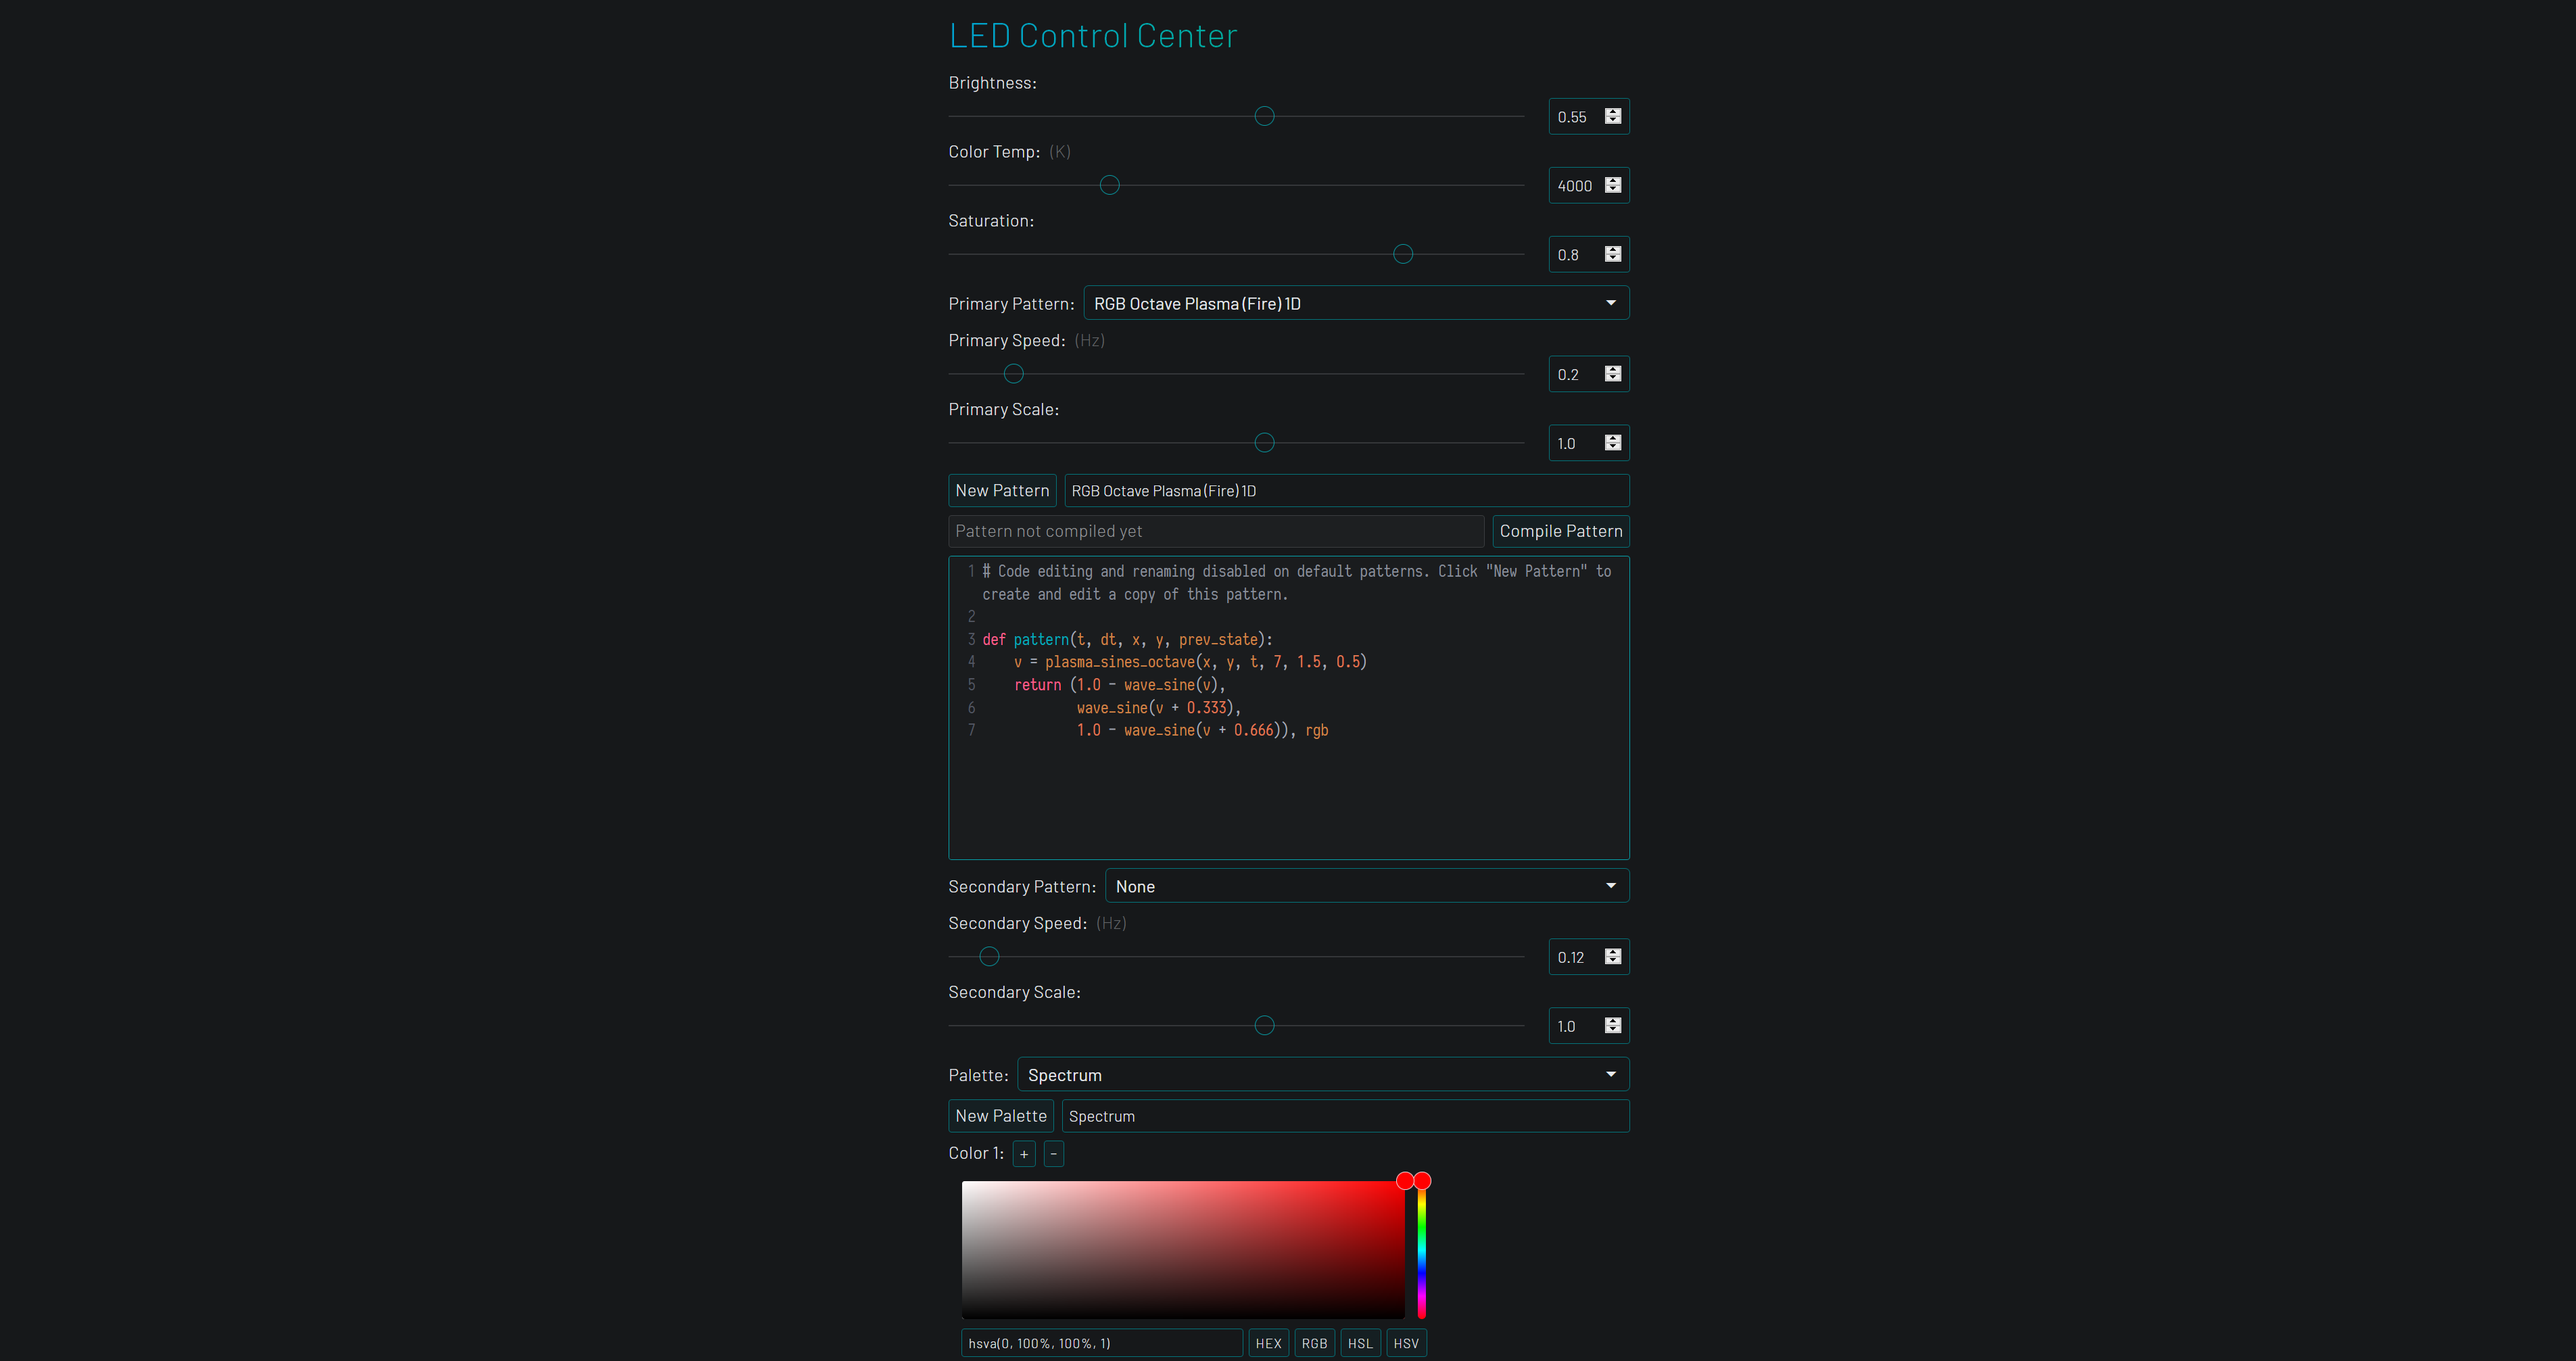
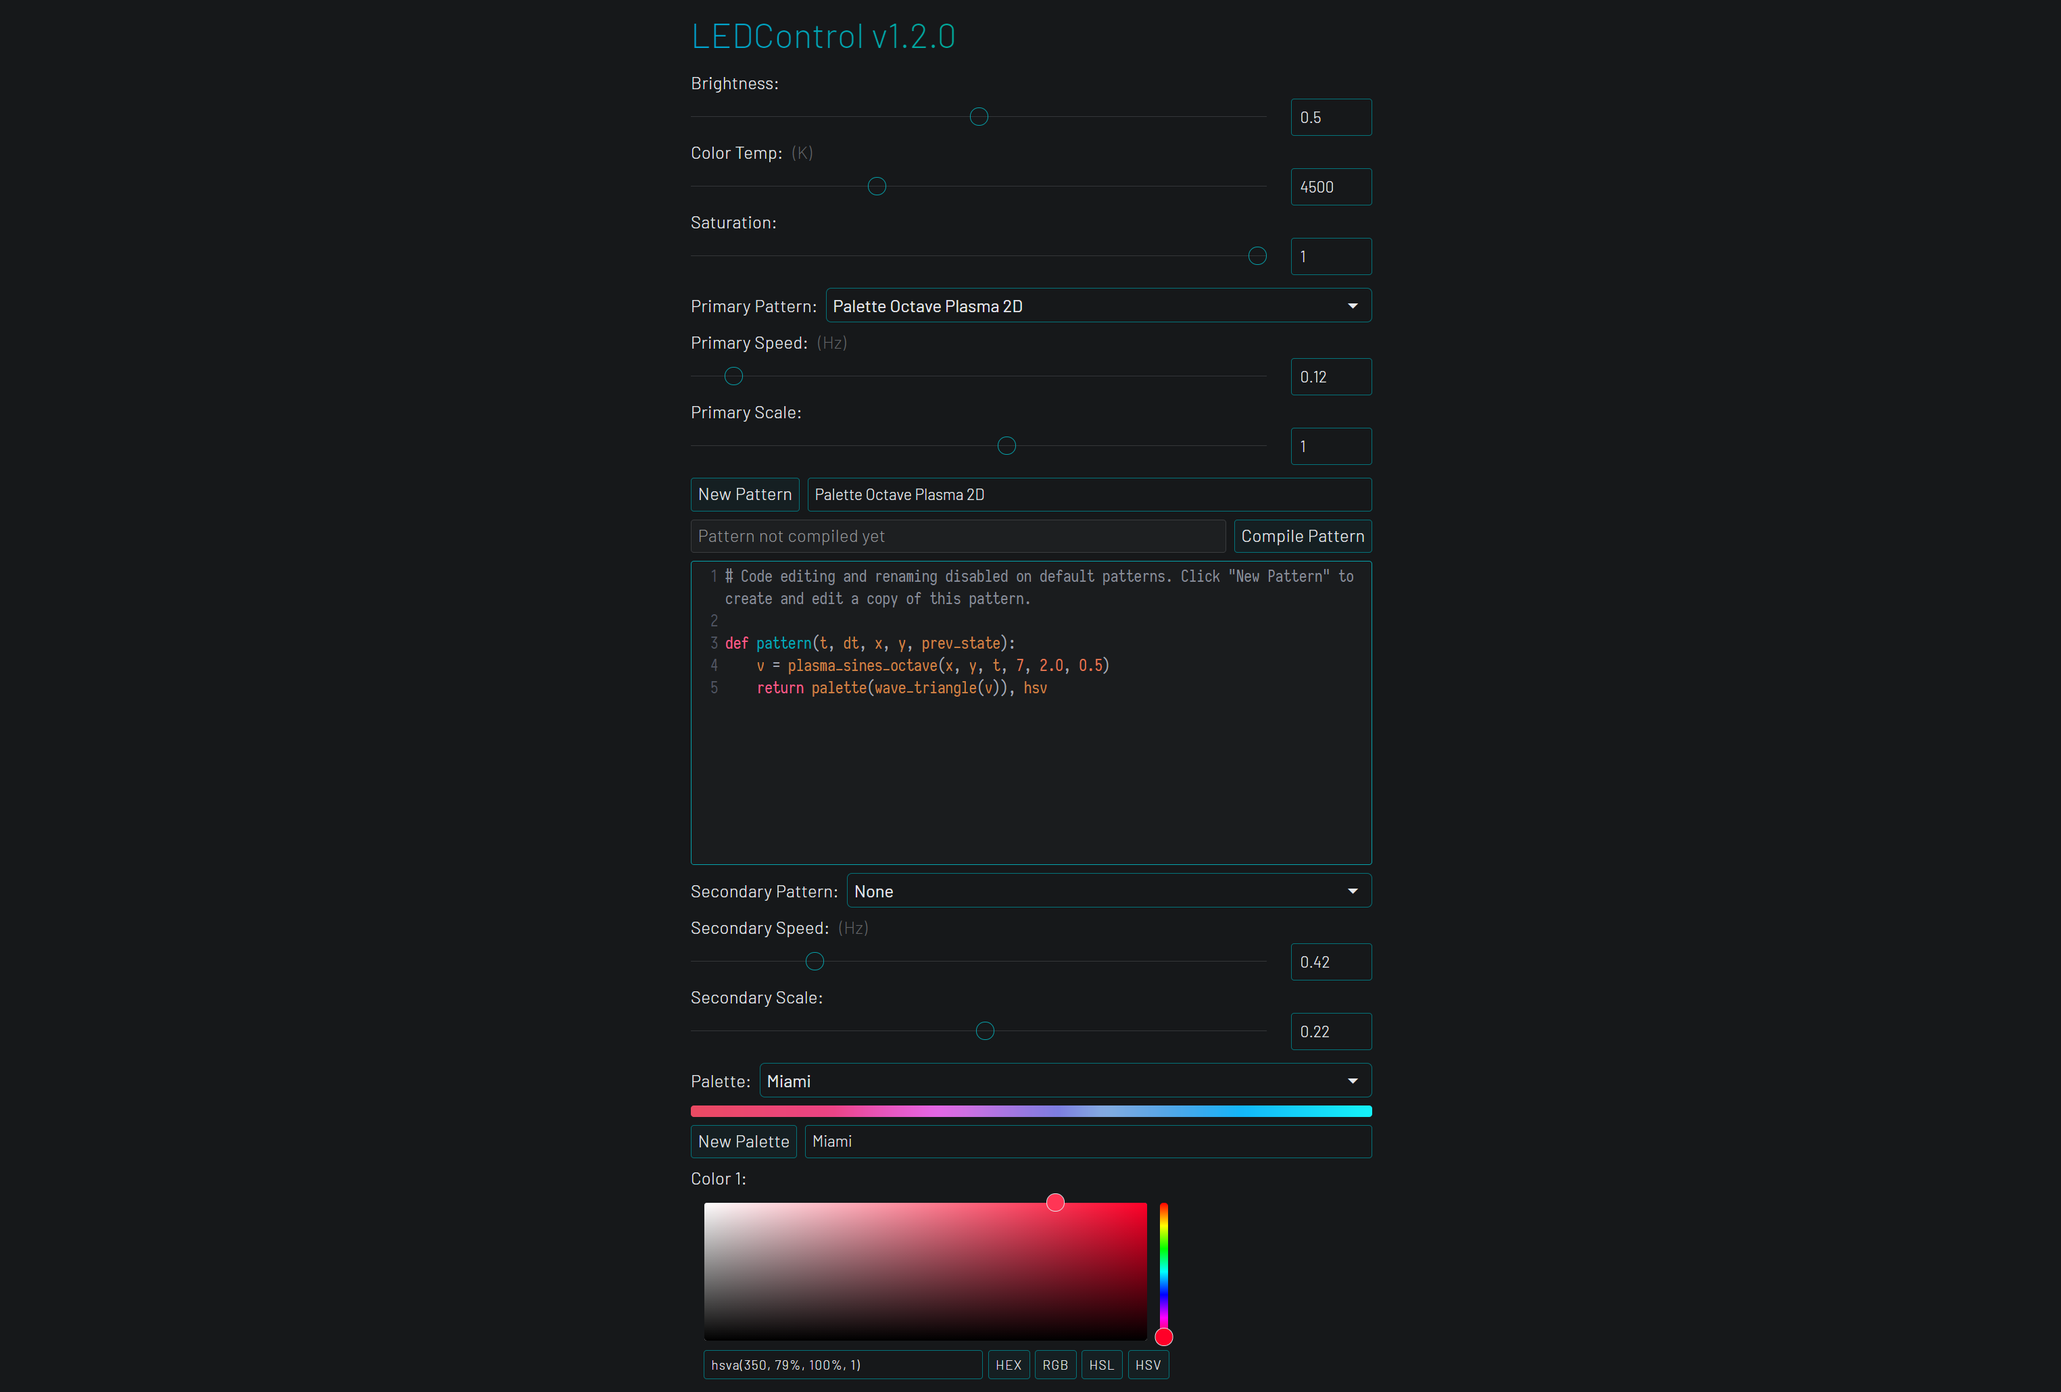
new default color palettes

diff --git a/ledcontrol/colorpalettes.py b/ledcontrol/colorpalettes.py
@@ -3,18 +3,268 @@
 
 default = {
     0: {
-        'name': 'Sunset',
+        'name': 'Sunset Light',
         'mode': 0,
-        'colors': [[0.114, 1, 1], [0.005, 1, 1], [0.925, 1, 0.66], [0.883, 1, 0.28]]
+        'colors': [
+            [
+                0.11311430089613972,
+                1,
+                1
+            ],
+            [
+                0.9936081381405101,
+                0.6497928024431981,
+                1
+            ],
+            [
+                0.9222222222222223,
+                0.9460097254004577,
+                1
+            ],
+            [
+                0.7439005234662223,
+                0.7002515180395283,
+                1
+            ],
+            [
+                0.6175635842715993,
+                0.6474992244615467,
+                1
+            ]
+        ]
     },
-    1: {
+    10: {
+        'name': 'Sunset Dark',
+        'mode': 0,
+        'colors': [
+            [
+                0.11311430089613972,
+                1,
+                1
+            ],
+            [
+                0.0083333333333333,
+                0.8332790409753081,
+                1
+            ],
+            [
+                0.9222222222222223,
+                0.8539212428101706,
+                0.7776361353257123
+            ],
+            [
+                0.8833333333333333,
+                0.8974992244615467,
+                0.2942011216107537
+            ]
+        ]
+    },
+    20: {
+        'name': 'Miami',
+        'mode': 0,
+        'colors': [
+            [
+                0.973575367647059,
+                0.792691647597254,
+                1
+            ],
+            [
+                0.935202205882353,
+                0.8132866132723112,
+                1
+            ],
+            [
+                0.8012408088235294,
+                0.6622568649885584,
+                0.992876838235294
+            ],
+            [
+                0.59375,
+                0.6027602974828375,
+                1
+            ],
+            [
+                0.5480238970588235,
+                0.9482980549199085,
+                1
+            ],
+            [
+                0.5022977941176471,
+                0.9460097254004577,
+                1
+            ]
+        ]
+    },
+    90: {
         'name': 'Spectrum',
         'mode': 0,
-        'colors': [[0, 1, 1], [1, 1, 1]]
+        'colors': [
+            [0, 1, 1],
+            [1, 1, 1]
+        ]
     },
-    2: {
+    30: {
+        'name': 'Lemonbars',
+        'mode': 0,
+        'colors': [
+            [
+                0.5985753676470589,
+                0.9979987139601192,
+                1
+            ],
+            [
+                0.7807904411764706,
+                0.9989988558352403,
+                1
+            ],
+            [
+                1,
+                0.9989988558352403,
+                1
+            ]
+        ],
+    },
+    40: {
+        'name': 'Viridis',
+        'mode': 0,
+        'colors': [
+            [
+                0.7663143382352942,
+                0.9989988558352403,
+                0.6528033088235294
+            ],
+            [
+                0.6029411764705882,
+                0.9989988558352403,
+                1
+            ],
+            [
+                0.4028033088235295,
+                0.5249570938215103,
+                1
+            ],
+            [
+                0.12339154411764706,
+                0.9989988558352403,
+                1
+            ]
+        ],
+    },
+    150: {
         'name': 'Fire',
         'mode': 0,
-        'colors': [[0, 1, 1], [0.06, 1, 1], [0.11, 1, 1], [0.05, 0.5, 1], [0, 0, 1], [0.55, 1, 1], [0.68, 1, 0.8]]
-    }
+        'colors': [
+            [0, 1, 1],
+            [0.04549632352941176, 1, 1],
+            [0.11, 1, 1],
+            [0.08639705882352941, 0.667, 1],
+            [0, 0, 1]
+        ]
+    },
+    160: {
+        'name': 'Golden Hour',
+        'mode': 0,
+        'colors': [
+            [
+                0.09122242647058823,
+                0.9960014330660517,
+                1
+            ],
+            [
+                0.1484375,
+                0.9960014330660517,
+                1
+            ],
+            [
+                0.13947610294117646,
+                0.4311355835240275,
+                0.6178768382352942
+            ]
+        ],
+    },
+    170: {
+        'name': 'Ocean',
+        'mode': 0,
+        'colors': [
+            [
+                0.6190257352941176,
+                0.9969995733712004,
+                1
+            ],
+            [
+                0.5659466911764706,
+                0.9989988558352403,
+                1
+            ],
+            [
+                0.4834558823529411,
+                0.746925057208238,
+                1
+            ]
+        ],
+    },
+
+    190: {
+        'name': 'Sky Blue',
+        'mode': 0,
+        'colors': [
+            [
+                0.5824908088235294,
+                0.8762614416475973,
+                1
+            ],
+            [
+                0.5808823529411765,
+                0.8132866132723112,
+                1
+            ],
+            [
+                0.5659466911764706,
+                0.5821653318077803,
+                1
+            ]
+        ],
+    },
+    200: {
+        'name': 'Purple',
+        'mode': 0,
+        'colors': [
+            [
+                0.7456341911764706,
+                0.9969995733712004,
+                1
+            ],
+            [
+                0.6541819852941176,
+                0.9979987139601192,
+                1
+            ],
+            [
+                0.68359375,
+                0.5913186498855835,
+                1
+            ]
+        ],
+    },
+    210: {
+        'name': 'Hot Pink',
+        'mode': 0,
+        'colors': [
+            [
+                0.979549632352941,
+                0.9989988558352403,
+                1
+            ],
+            [
+                0.9338235294117647,
+                0.8727831807780321,
+                1
+            ],
+            [
+                0.9542738970588235,
+                0.7240417620137299,
+                1
+            ]
+        ],
+    },
 }
